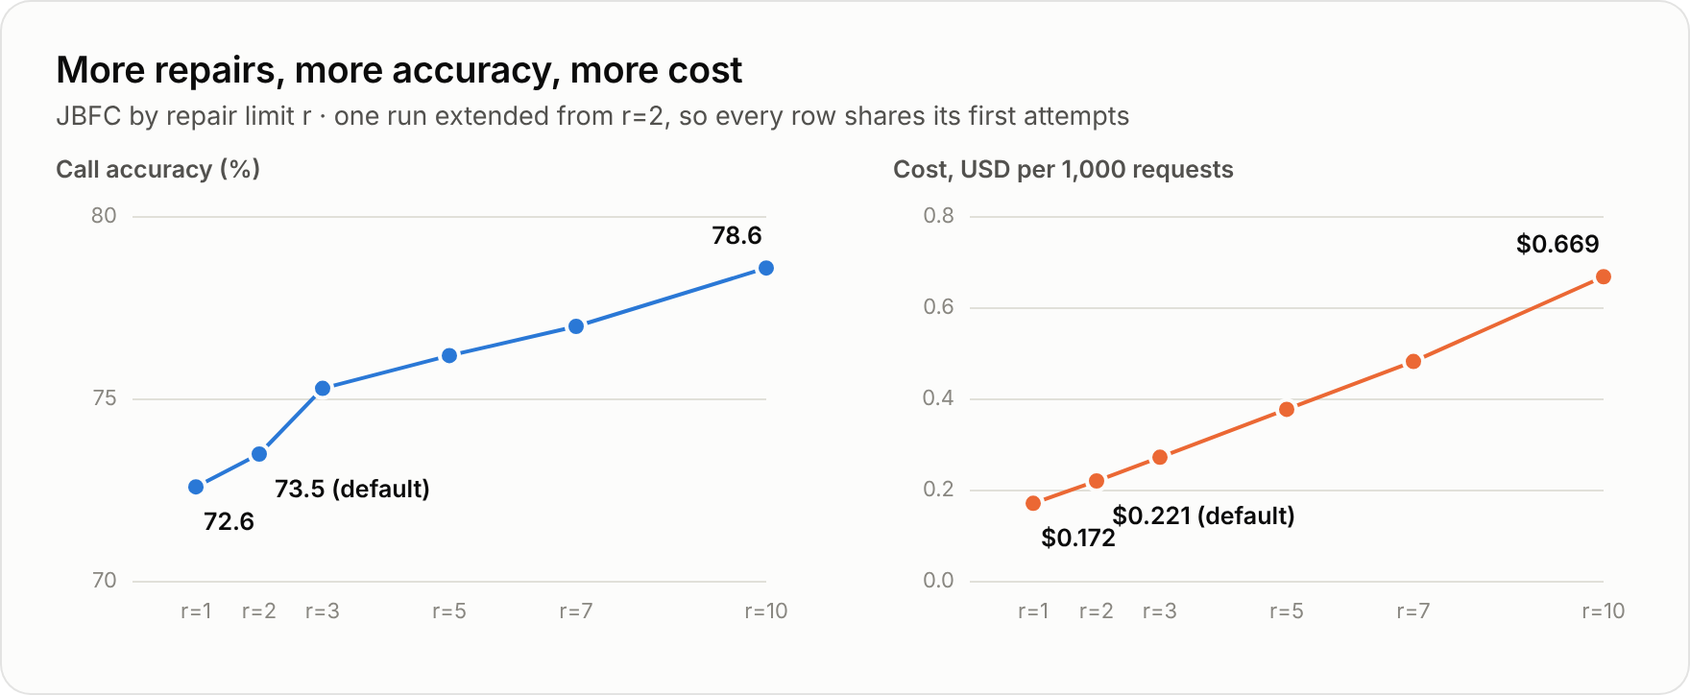
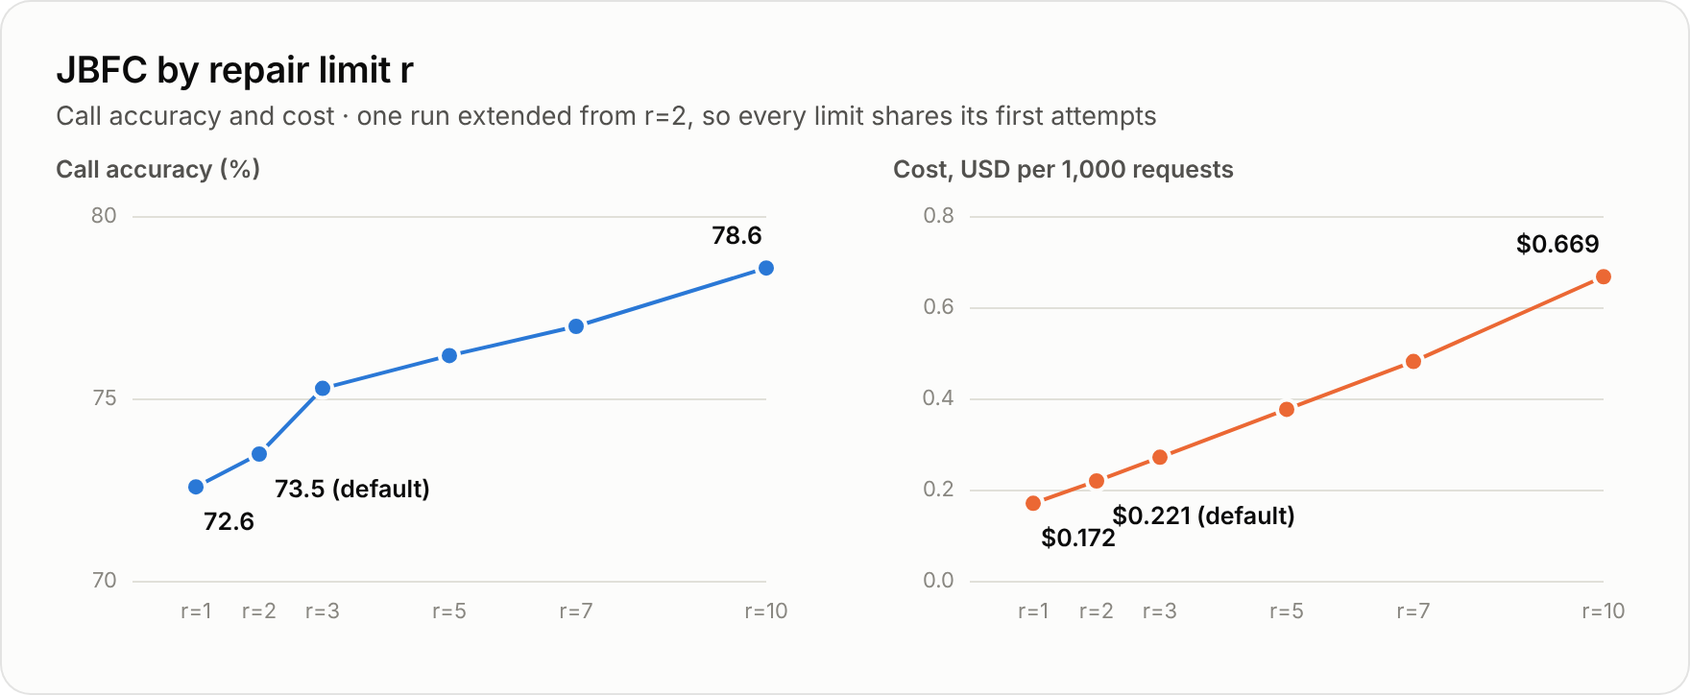
docs: stop headlining accuracy gains in the README
- Hero: replace the "+9.7 points" card with a real accept/reject example
- Remove the result badges; feature cells make no performance claims
- Move the numbers to a Results section after the API docs, opened by the
  study's scope (one generator, one run, BFCL subset), without bold claims
- Charts: neutral delta color and a plain title for the repair-limit chart
- AGENTS.md: keep result numbers off the README's first screen

Claude-Session: https://claude.ai/code/session_01HkTMoNkTjxN67DttugRtnV

Changed region(s): [[0.0312, 0.1519, 0.6875, 0.1823], [0.0312, 0.0608, 0.4375, 0.1215]]

diff --git a/docs/assets/src/hero.html b/docs/assets/src/hero.html
@@ -40,18 +40,23 @@
   .arrow { color: rgba(255,255,255,.55); font: 600 20px Inter; }
   .loop { font: 500 13px Inter; color: rgba(221,214,254,.85); margin-left: 4px; }
   .card {
-    position: absolute; right: 56px; top: 54px; width: 356px; padding: 26px 28px 24px;
+    position: absolute; right: 56px; top: 50px; width: 372px; padding: 22px 24px 20px;
     border-radius: 20px; background: rgba(255,255,255,.07); border: 1px solid rgba(255,255,255,.16);
     box-shadow: 0 20px 60px rgba(0,0,0,.35); backdrop-filter: blur(6px);
   }
   .card .lbl { font: 600 13px Inter; letter-spacing: .1em; text-transform: uppercase; color: #a5b4fc; }
-  .card .big { margin-top: 6px; font: 800 76px/1 "Inter Display"; color: #fff; letter-spacing: -.02em; }
-  .card .big span { font: 700 28px Inter; color: rgba(255,255,255,.75); margin-left: 6px; letter-spacing: 0; }
-  .card .row { margin-top: 14px; font: 500 16px Inter; color: rgba(255,255,255,.86); display: flex; justify-content: space-between; }
-  .card .row b { font-weight: 700; color: #fff; }
-  .card .row .up { color: #86efac; font-weight: 700; }
-  .card .hr { height: 1px; background: rgba(255,255,255,.14); margin-top: 14px; }
-  .card .foot { margin-top: 12px; font: 400 13px Inter; color: rgba(255,255,255,.6); }
+  .card .req { margin-top: 12px; font: 500 15px/1.35 Inter; color: rgba(255,255,255,.92); }
+  .card .req .who { font: 600 11px Inter; letter-spacing: .08em; text-transform: uppercase; color: rgba(255,255,255,.55); margin-right: 8px; }
+  .card .step { margin-top: 12px; display: flex; gap: 11px; align-items: flex-start; }
+  .card .ic { flex: none; width: 22px; height: 22px; border-radius: 50%; display: flex; align-items: center; justify-content: center; margin-top: 1px; }
+  .card .bad .ic { background: rgba(248,113,113,.22); border: 1.5px solid rgba(248,113,113,.8); }
+  .card .good .ic { background: rgba(74,222,128,.20); border: 1.5px solid rgba(74,222,128,.8); }
+  .card .code { font: 500 14px/1.35 "DejaVu Sans Mono", monospace; color: #fff; }
+  .card .bad .code { color: #fecaca; text-decoration: line-through; text-decoration-color: rgba(248,113,113,.7); }
+  .card .good .code { color: #bbf7d0; }
+  .card .why { margin-top: 3px; font: 400 13px Inter; color: rgba(255,255,255,.66); }
+  .card .why b { font-weight: 700; color: #fff; }
+  .card .mid { margin: 10px 0 0 33px; font: 500 13px Inter; color: #ddd6fe; }
 </style></head>
 <body>
 <div class="hero">
@@ -60,7 +65,7 @@
     <div class="eyebrow">Verify before you call</div>
     <div class="title">JBFC</div>
     <div class="sub">Jev-Backed Function Calling</div>
-    <div class="tag">Every tool call is checked before it runs, and repaired when it is wrong.</div>
+    <div class="tag">Tool calls are checked before they run and sent back for repair when rejected.</div>
   </div>
   <div class="flow">
     <div class="pill p1"><span class="e">🤖</span>LLM proposes</div>
@@ -72,12 +77,13 @@
     <div class="pill p4"><span class="e">✅</span>Runs</div>
   </div>
   <div class="card">
-    <div class="lbl">BFCL · gpt-5-nano</div>
-    <div class="big">+9.7<span>points</span></div>
-    <div class="row"><span>Call accuracy</span><span>63.8% → <b>73.5%</b></span></div>
-    <div class="row"><span>No tool needed</span><span>25.4% → <span class="up">74.2%</span></span></div>
-    <div class="hr"></div>
-    <div class="foot">3,051 examples · one run · at most 2 repairs</div>
+    <div class="lbl">Checked before it runs</div>
+    <div class="req"><span class="who">User</span>How many kilograms are in a pound?</div>
+    <div class="step bad"><div class="ic"><svg width="10" height="10" viewBox="0 0 10 10"><path d="M2 2 L8 8 M8 2 L2 8" stroke="#fecaca" stroke-width="1.8" stroke-linecap="round"/></svg></div>
+      <div><div class="code">portfolio_returns(…)</div><div class="why">Jev · right function? <b>no</b></div></div></div>
+    <div class="mid">↻ verdict goes back to the model</div>
+    <div class="step good"><div class="ic"><svg width="11" height="10" viewBox="0 0 11 10"><path d="M1.5 5.2 L4.3 8 L9.5 2" fill="none" stroke="#bbf7d0" stroke-width="1.8" stroke-linecap="round" stroke-linejoin="round"/></svg></div>
+      <div><div class="code">no call: answers in text</div><div class="why">Jev · right to make no call? <b>yes</b></div></div></div>
   </div>
 </div>
 </body></html>

diff --git a/docs/assets/src/charts.py b/docs/assets/src/charts.py
@@ -2,7 +2,7 @@
 
 Usage: python docs/assets/src/charts.py docs/assets/src/data.json docs/assets
 Needs Playwright with Chromium and the Inter font. The numbers in data.json must equal
-the filled paper tables (Tables 1-3); colors are a validated categorical palette.
+the filled paper results (Tables 1-2 and Figure 2); colors are a validated categorical palette.
 """
 import json
 import sys
@@ -13,10 +13,10 @@ from playwright.sync_api import sync_playwright
 THEMES = {
     "light": dict(surface="#fcfcfb", ink="#0b0b0b", ink2="#52514e", muted="#898781", grid="#e1e0d9",
                   base="#c3c2b7", blue="#2a78d6", orange="#eb6834", gray="#c9c7c0", link="#c3c2b7",
-                  up="#006300", border="rgba(11,11,11,0.10)"),
+                  border="rgba(11,11,11,0.10)"),
     "dark": dict(surface="#1a1a19", ink="#f0efec", ink2="#c3c2b7", muted="#898781", grid="#2c2c2a",
                  base="#383835", blue="#3987e5", orange="#d95926", gray="#4b4a46", link="#4b4a46",
-                 up="#0ca30c", border="rgba(255,255,255,0.10)"),
+                 border="rgba(255,255,255,0.10)"),
 }
 W = 880
 
@@ -68,7 +68,7 @@ def categories(t, rows):
         out.append(text(cols["Direct"], y, f"{direct:.1f}", t["ink2"], 13, 450, "end"))
         out.append(text(cols["JBFC"], y, f"{jbfc:.1f}", t["ink"], 13, 650, "end"))
         delta = jbfc - direct
-        out.append(text(cols["Δ"], y, f"+{delta:.1f}" if delta > 0.05 else "±0", t["up"] if delta > 0.05 else t["muted"], 13, 600, "end"))
+        out.append(text(cols["Δ"], y, f"+{delta:.1f}" if delta > 0.05 else "±0", t["ink2"] if delta > 0.05 else t["muted"], 13, 450, "end"))
     out.append("</svg>")
     return "".join(out)
 
@@ -156,8 +156,8 @@ def main(data_path, out_dir):
         jobs.append((f"chart-methods-{mode}.png", page(t, "Call accuracy by method",
                      "Same first proposal for every method · at most 2 repairs · time and cost per request at right",
                      [], methods(t, data["methods"]))))
-        jobs.append((f"chart-limits-{mode}.png", page(t, "More repairs, more accuracy, more cost",
-                     "JBFC by repair limit r · one run extended from r=2, so every row shares its first attempts",
+        jobs.append((f"chart-limits-{mode}.png", page(t, "JBFC by repair limit r",
+                     "Call accuracy and cost · one run extended from r=2, so every limit shares its first attempts",
                      [], limits(t, data["limits"]))))
     with sync_playwright() as p:
         browser = p.chromium.launch()

diff --git a/README.md b/README.md
@@ -1,14 +1,8 @@
 <p align="center">
-  <img src="docs/assets/jbfc-hero.png" alt="JBFC: Jev-Backed Function Calling. The LLM proposes a call, Jev checks it, the LLM repairs it with the feedback, and only then does it run." width="100%">
+  <img src="docs/assets/jbfc-hero.png" alt="JBFC: Jev-Backed Function Calling. The LLM proposes a call, Jev checks it, a rejected call goes back to the LLM with the verdict, and only a call that passes runs." width="100%">
 </p>
 
-<h3 align="center">Your LLM's tool calls, checked before they run, and repaired when they are wrong.</h3>
-
-<p align="center">
-  <a href="#the-numbers"><img alt="BFCL call accuracy 63.8% to 73.5%" src="https://img.shields.io/badge/BFCL%20call%20accuracy-63.8%25%20%E2%86%92%2073.5%25-2563eb?style=for-the-badge"></a>
-  <a href="#see-it"><img alt="No tool needed 25.4% to 74.2%" src="https://img.shields.io/badge/no%20tool%20needed-25.4%25%20%E2%86%92%2074.2%25-7c3aed?style=for-the-badge"></a>
-  <a href="#more-repairs"><img alt="With 10 repairs 78.6%" src="https://img.shields.io/badge/with%2010%20repairs-78.6%25-db2777?style=for-the-badge"></a>
-</p>
+<h3 align="center">Your LLM's tool calls, checked before they run and sent back for repair when rejected.</h3>
 
 <p align="center">
   <img alt="OpenAI" src="https://img.shields.io/badge/OpenAI-412991?style=flat-square&logo=openai&logoColor=white">
@@ -32,10 +26,10 @@
   <a href="#see-it"><b>See it</b></a> ·
   <a href="#install"><b>Install</b></a> ·
   <a href="#quickstart"><b>Quickstart</b></a> ·
-  <a href="#the-numbers"><b>Numbers</b></a> ·
   <a href="#how-it-works"><b>How it works</b></a> ·
   <a href="#use-any-model"><b>Any model</b></a> ·
   <a href="#verify-calls-from-any-framework"><b>Verify</b></a> ·
+  <a href="#results"><b>Results</b></a> ·
   <a href="#faq"><b>FAQ</b></a> ·
   <a href="#reproduce-the-paper"><b>Reproduce</b></a>
 </p>
@@ -84,14 +78,14 @@ Two real traces from the paper's run (`gpt-5-nano` on BFCL, `jev-1.13.0`). Red l
 
 <table>
   <tr>
-    <td width="33%" valign="top"><b>🎯 Catches what schemas miss</b><br>Wrong function, invented values, a call that should not happen at all. Jev judges meaning; a local schema check covers format.</td>
+    <td width="33%" valign="top"><b>🎯 Checks what schemas cannot</b><br>Wrong function, invented values, a call that should not happen at all. Jev judges meaning; a local schema check covers format.</td>
     <td width="33%" valign="top"><b>🔁 Repairs instead of failing</b><br>Rejected calls go back to the model with every earlier attempt and verdict. Nothing runs until a call passes.</td>
-    <td width="33%" valign="top"><b>⚡ Fast labels</b><br>Jev judges a call in 0.30 s on average, under a quarter of the time the model takes to propose it, at $0.06 per 1,000 checks.</td>
+    <td width="33%" valign="top"><b>⚡ Light checks</b><br>A Jev verdict took about 0.3 s per call in our runs, less time than the model took to propose the call, and about $0.06 per 1,000 checks.</td>
   </tr>
   <tr>
     <td valign="top"><b>🔌 Any model</b><br>OpenAI, Anthropic, Gemini, xAI Grok, Azure OpenAI, OpenRouter, or any OpenAI-compatible server. Plain HTTP, no vendor SDKs.</td>
     <td valign="top"><b>🧰 Plain Python tools</b><br>Pass functions. Schemas come from type hints and docstrings; JSON Schema works too.</td>
-    <td valign="top"><b>📄 Paper-grade</b><br>The same loop produced the paper's numbers. Every result here comes from one complete run on 3,051 BFCL examples.</td>
+    <td valign="top"><b>📄 Open study</b><br>The library runs the same loop as the paper. Code, the pinned BFCL revision and the checks behind every table are in this repo.</td>
   </tr>
 </table>
 
@@ -143,77 +137,13 @@ elif result.no_call:
     print(result.text)                   # the model answered without a tool
 ```
 
-## The numbers
-
-All 3,051 examples from seven BFCL categories, one run, `gpt-5-nano` (reasoning effort `none`) as the model and `jev-1.13.0` as the verifier. Every method shares each example's first proposal. From the paper in [`paper/`](paper/main.pdf).
-
-<picture>
-  <source media="(prefers-color-scheme: dark)" srcset="docs/assets/chart-categories-dark.png">
-  <img alt="Accuracy by BFCL category, Direct vs JBFC: Simple Python 90.8 to 91.5, Multiple 91.0 to 91.5, Irrelevance 25.4 to 74.2, Live simple 73.6 to 75.2, Live multiple 67.7 to 71.2, Live irrelevance 48.2 to 63.2, total 63.8 to 73.5." src="docs/assets/chart-categories-light.png" width="100%">
-</picture>
-
-<picture>
-  <source media="(prefers-color-scheme: dark)" srcset="docs/assets/chart-methods-dark.png">
-  <img alt="Call accuracy by method: JBFC 73.5, JBFC-A 72.9, JBFC-L 72.8, JBFC-F 72.6, Self-refine 69.8, Schema repair 65.7, Direct 63.8, with API seconds and USD per 1,000 requests." src="docs/assets/chart-methods-light.png" width="100%">
-</picture>
-
-- Every repair method beats Direct; JBFC by **9.7 points** (paired bootstrap 95% CI 8.5–11.0).
-- Generic self-review spends three proposals on every request and still trails every Jev-based method, which average 1.5 to 1.8.
-- Keeping the whole revision history adds 0.7 points over showing only the latest rejection (95% CI 0.1–1.4).
-- Calls that pass all checks are **90.6% correct** (68.4% of examples), so the verdict doubles as a confidence signal.
-
-<a id="more-repairs"></a>
-<picture>
-  <source media="(prefers-color-scheme: dark)" srcset="docs/assets/chart-limits-dark.png">
-  <img alt="JBFC by repair limit: call accuracy 72.6% at r=1, 73.5% at r=2 (default), 75.3% at r=3, 76.2% at r=5, 77.0% at r=7 and 78.6% at r=10; cost per 1,000 requests $0.172, $0.221, $0.273, $0.378, $0.483 and $0.669." src="docs/assets/chart-limits-light.png" width="100%">
-</picture>
-
-More repairs keep paying off, at a price: the same run, continued up to ten repairs, reaches **78.6%**. The default stays at `max_repairs=2`; raise it when accuracy matters more than latency.
-
-> [!NOTE]
-> **The rows that are not green.** Most of the gain comes from requests where no tool applies (Irrelevance: 25.4% → 74.2%). Where a call *is* needed, Jev rejects most wrong calls, but a yes/no verdict says *that* a call is wrong, not *which* call is right, so fewer get fixed (Simple Python +0.7, Multiple +0.5). It costs about four times Direct: $0.22 instead of $0.056 per 1,000 requests with `gpt-5-nano`, and 1.6 extra API seconds.
-
-<details>
-<summary><b>All numbers as tables</b></summary>
-
-| Category | Examples | Direct | **JBFC** |
-|---|---:|---:|---:|
-| Simple Python | 400 | 90.8 | **91.5** |
-| Multiple | 200 | 91.0 | **91.5** |
-| Irrelevance | 240 | 25.4 | **74.2** |
-| Live simple | 258 | 73.6 | **75.2** |
-| Live multiple | 1,053 | 67.7 | **71.2** |
-| Live irrelevance | 884 | 48.2 | **63.2** |
-| **Total** (excl. 16 live relevance) | 3,035 | 63.8 | **73.5** |
-
-| Method | Call acc. | Function acc. | Argument acc. | API sec. | USD / 1k requests |
-|---|---:|---:|---:|---:|---:|
-| Direct (no checks) | 63.8 | 74.8 | 81.2 | 1.30 | 0.056 |
-| Schema repair | 65.7 | 76.4 | 81.8 | 1.36 | 0.059 |
-| Self-refine (3 proposals, every request) | 69.8 | 80.0 | 82.3 | 4.01 | 0.190 |
-| JBFC-F (function check only) | 72.6 | 83.5 | 81.8 | 2.61 | 0.190 |
-| JBFC-A (argument check only) | 72.9 | 82.8 | **83.0** | 2.40 | 0.175 |
-| JBFC-L (latest feedback only) | 72.8 | 83.1 | 82.6 | 2.92 | 0.217 |
-| **JBFC** | **73.5** | **83.7** | 82.8 | 2.90 | 0.221 |
-
-| `max_repairs` | 1 | 2 (default) | 3 | 5 | 7 | 10 |
-|---|---:|---:|---:|---:|---:|---:|
-| Call accuracy | 72.6 | 73.5 | 75.3 | 76.2 | 77.0 | **78.6** |
-| Function accuracy | 83.0 | 83.7 | 85.0 | 86.0 | 86.5 | **87.7** |
-| Mean repairs used | 0.42 | 0.75 | 1.07 | 1.69 | 2.29 | 3.17 |
-| Reached the limit without passing | 33.4% | 31.8% | 30.9% | 30.2% | 29.7% | 29.2% |
-| API seconds | 2.33 | 2.90 | 3.49 | 4.65 | 5.79 | 7.35 |
-| USD / 1k requests | 0.172 | 0.221 | 0.273 | 0.378 | 0.483 | 0.669 |
-
-</details>
-
 ## How it works
 
 ![JBFC: the model proposes a call, Jev checks it, and rejected calls return to the model as a growing feedback history](docs/assets/jbfc-framework.png)
 
 **(a)** The LLM proposes a call $c_t$, one function with its arguments, or no call. A local schema check and Jev judge it: Jev sees the request, the available functions and the call, and answers *right function?* and, when there is a call, *right arguments?* as probabilities of yes. A check passes at 0.8 or more. A rejected call and its verdicts $d_t$ are appended to the feedback history $H_t$, and the model tries again. **(b)** The history goes *before* the original request, oldest first, and is marked as not executed, so the model sees every earlier attempt and can change the function, the arguments, or decide not to call. (The scores in (b) are illustrative.)
 
-Each record is a labeled example: a call the model wrote, with Jev's verdict on it. Like the demonstrations in [many-shot in-context learning](https://arxiv.org/abs/2404.11018), more of them help: the full history beats the latest record alone, and accuracy keeps rising with the repair limit (which also adds attempts). Jev makes those labels in a fraction of a second, without reference answers.
+Each record is a labeled example: a call the model wrote, with Jev's verdict on it. Like the demonstrations in [many-shot in-context learning](https://arxiv.org/abs/2404.11018), more of them seemed to help in our run: the full history scored slightly above the latest record alone, and accuracy rose with the repair limit (which also adds attempts). Jev makes those labels in a fraction of a second, without reference answers.
 
 The loop stops at the first proposal that passes every check, or after `max_repairs` repairs (2 by default). Nothing runs during repairs; `run()` executes only the final, accepted call.
 
@@ -320,6 +250,70 @@ jbfc.JBFC(
 | `attempts` | every proposal with its Jev probabilities and schema errors |
 | `usage`, `latency_s` | tokens for the model and for Jev, and wall time |
 | `trace` | the full record: proposals, verdicts and feedback |
+
+</details>
+
+## Results
+
+> [!NOTE]
+> A small study, not a benchmark claim: one generator (`gpt-5-nano`, reasoning effort `none`), one verifier (`jev-1.13.0`), 3,051 single-turn examples from seven BFCL categories, one run per method, nothing tuned. Every method shares each example's first proposal. Intervals and caveats are in the [paper](paper/main.pdf).
+
+<picture>
+  <source media="(prefers-color-scheme: dark)" srcset="docs/assets/chart-categories-dark.png">
+  <img alt="Accuracy by BFCL category, Direct vs JBFC: Simple Python 90.8 to 91.5, Multiple 91.0 to 91.5, Irrelevance 25.4 to 74.2, Live simple 73.6 to 75.2, Live multiple 67.7 to 71.2, Live irrelevance 48.2 to 63.2, total 63.8 to 73.5." src="docs/assets/chart-categories-light.png" width="100%">
+</picture>
+
+<picture>
+  <source media="(prefers-color-scheme: dark)" srcset="docs/assets/chart-methods-dark.png">
+  <img alt="Call accuracy by method: JBFC 73.5, JBFC-A 72.9, JBFC-L 72.8, JBFC-F 72.6, Self-refine 69.8, Schema repair 65.7, Direct 63.8, with API seconds and USD per 1,000 requests." src="docs/assets/chart-methods-light.png" width="100%">
+</picture>
+
+- Every repair method scored above Direct in this run; JBFC by 9.7 points (paired bootstrap 95% CI 8.5–11.0).
+- Most of that difference comes from requests where no tool applies (Irrelevance: 25.4% → 74.2%). Where a call is needed, the gains are small (Simple Python +0.7, Multiple +0.5): a yes/no verdict says *that* a call is wrong, not *which* call is right.
+- Generic self-review spends three proposals on every request and trailed every Jev-based method, which averaged 1.5 to 1.8 proposals.
+- Keeping the whole history scored 0.7 points above showing only the latest rejection (95% CI 0.1–1.4).
+- Accepted is not the same as correct: calls that passed every check (68.4% of examples) were 90.6% correct.
+- JBFC cost about four times Direct ($0.22 instead of $0.056 per 1,000 requests) and took 1.6 more API seconds.
+
+<a id="more-repairs"></a>
+<picture>
+  <source media="(prefers-color-scheme: dark)" srcset="docs/assets/chart-limits-dark.png">
+  <img alt="JBFC by repair limit: call accuracy 72.6% at r=1, 73.5% at r=2 (default), 75.3% at r=3, 76.2% at r=5, 77.0% at r=7 and 78.6% at r=10; cost per 1,000 requests $0.172, $0.221, $0.273, $0.378, $0.483 and $0.669." src="docs/assets/chart-limits-light.png" width="100%">
+</picture>
+
+Continuing the same run to higher repair limits raised call accuracy from 73.5% at two repairs to 78.6% at ten, at about three times the cost; most newly correct answers (178 of 194) were again cases where no tool applies. The default stays at `max_repairs=2`.
+
+<details>
+<summary><b>All numbers as tables</b></summary>
+
+| Category | Examples | Direct | **JBFC** |
+|---|---:|---:|---:|
+| Simple Python | 400 | 90.8 | **91.5** |
+| Multiple | 200 | 91.0 | **91.5** |
+| Irrelevance | 240 | 25.4 | **74.2** |
+| Live simple | 258 | 73.6 | **75.2** |
+| Live multiple | 1,053 | 67.7 | **71.2** |
+| Live irrelevance | 884 | 48.2 | **63.2** |
+| **Total** (excl. 16 live relevance) | 3,035 | 63.8 | **73.5** |
+
+| Method | Call acc. | Function acc. | Argument acc. | API sec. | USD / 1k requests |
+|---|---:|---:|---:|---:|---:|
+| Direct (no checks) | 63.8 | 74.8 | 81.2 | 1.30 | 0.056 |
+| Schema repair | 65.7 | 76.4 | 81.8 | 1.36 | 0.059 |
+| Self-refine (3 proposals, every request) | 69.8 | 80.0 | 82.3 | 4.01 | 0.190 |
+| JBFC-F (function check only) | 72.6 | 83.5 | 81.8 | 2.61 | 0.190 |
+| JBFC-A (argument check only) | 72.9 | 82.8 | **83.0** | 2.40 | 0.175 |
+| JBFC-L (latest feedback only) | 72.8 | 83.1 | 82.6 | 2.92 | 0.217 |
+| **JBFC** | **73.5** | **83.7** | 82.8 | 2.90 | 0.221 |
+
+| `max_repairs` | 1 | 2 (default) | 3 | 5 | 7 | 10 |
+|---|---:|---:|---:|---:|---:|---:|
+| Call accuracy | 72.6 | 73.5 | 75.3 | 76.2 | 77.0 | 78.6 |
+| Function accuracy | 83.0 | 83.7 | 85.0 | 86.0 | 86.5 | 87.7 |
+| Mean repairs used | 0.42 | 0.75 | 1.07 | 1.69 | 2.29 | 3.17 |
+| Reached the limit without passing | 33.4% | 31.8% | 30.9% | 30.2% | 29.7% | 29.2% |
+| API seconds | 2.33 | 2.90 | 3.49 | 4.65 | 5.79 | 7.35 |
+| USD / 1k requests | 0.172 | 0.221 | 0.273 | 0.378 | 0.483 | 0.669 |
 
 </details>
 

diff --git a/AGENTS.md b/AGENTS.md
@@ -23,7 +23,7 @@ seven-method run (results/table2_gpt-5-nano_r2: gpt-5-nano, all 3,051 examples, 
 - Generator responses cut off at the output limit, refused, or blocked by the provider's content filter (including HTTP 400 content_filter) are unreadable proposals: calls=None with the reason in proposal.incomplete, scored wrong, repaired with local feedback, and counted in summaries. Other API errors still stop the run and record a sanitized provider error code.
 - Only the final dispatch boundary can invoke an application callback. Benchmark runs do not execute tools.
 - The manuscript uses execute_last: return the first passing proposal, or the last proposal at the repair limit even if rejected, and score it without running functions. Keep Section 3.3 focused on this final proposal rule; omit storage inventories, manifests, callbacks, and optional abstention policies from the manuscript. Shared initial proposals and their costs belong in Experiments.
-- src/jbfc is the public library (`import jbfc`, documented in the English README). It reuses jev_fc's repair loop (run_example), Jev client and generator prompt read-only, so its defaults reproduce the experiments; tests/test_jbfc.py checks prompt parity with jev_fc. Library work must not change src/jev_fc while a run or its extension depends on the source hash. Keep README numbers equal to the filled paper tables (scripts/analyze_results.py prints the Results numbers); README charts and the hero image are generated from docs/assets/src (data.json must match Tables 1-2 and Figure 2).
+- src/jbfc is the public library (`import jbfc`, documented in the English README). It reuses jev_fc's repair loop (run_example), Jev client and generator prompt read-only, so its defaults reproduce the experiments; tests/test_jbfc.py checks prompt parity with jev_fc. Library work must not change src/jev_fc while a run or its extension depends on the source hash. Keep README numbers equal to the filled paper tables (scripts/analyze_results.py prints the Results numbers); README charts and the hero image are generated from docs/assets/src (data.json must match Tables 1-2 and Figure 2). Do not headline performance gains in the README (user request, 2026-10-18): no result numbers in the hero image, badges, tagline or feature cells; results appear only in the Results section, after the API sections, opened by the study's scope (one generator, one run, BFCL subset) and stated without bold or superlatives.
 - Never print, commit or package API keys or .env. Keep credential fields in .env.example blank. APIM uses only the project subscription key in api-key; do not forward provider credentials. Preserve API format/routing in run fingerprints and keep unknown pricing unavailable.
 - Run appropriate offline tests after code changes. Use the native LaTeX editor for the standalone manuscript,
   and verify the exported PDF has four body pages with references beginning on page five (six pages maximum).

diff --git a/docs/validation.md b/docs/validation.md
@@ -278,3 +278,11 @@
 - 4쪽 유지: 그림이 표보다 높아 Acknowledgements가 5쪽으로 넘쳤습니다. 범례를 그림 안으로 옮기고 패널 높이와 캡션을 줄였으며, Study Limits의 "may suit some methods better than others"를 "may favor some methods"로 줄였습니다.
 - 제목: 사용자 요청으로 부제를 "Agentic In-Context Learning with Cumulative Decision Feedback"로 바꿨습니다(원고, README 인용).
 - PDF: 본문 4쪽·참고문헌 5쪽, Type 3 폰트 없음, overfull 없음을 확인했습니다.
+
+## README: 성능 수치 강조 제거 (2026-10-18)
+
+- 사용자 요청: 크지 않은 연구와 실험에서 "몇 점에서 몇 점으로" 같은 수치를 README 첫머리에서 내세우면 역효과가 날 수 있으므로 강조를 뺍니다.
+- 히어로 이미지의 "+9.7 points" 카드를 실제 실행의 예(불필요한 호출이 Jev에 거부되고, 모델이 호출 없이 답하는 과정)를 보여 주는 카드로 바꿨습니다. 수치는 없습니다. 태그라인도 "repaired when it is wrong" 대신 "sent back for repair when rejected"로 바꿨습니다(수정이 항상 성공하지는 않으므로).
+- 결과 배지 줄(63.8%→73.5%, 25.4%→74.2%, 78.6%)을 지웠습니다. 기능 표의 "Paper-grade"·"Fast labels"를 "Open study"·"Light checks"로 바꾸고 측정값은 "in our runs"로 한정했습니다.
+- "The numbers" 절을 API 설명 뒤의 "Results" 절로 옮겼습니다. 첫머리에 연구 범위(생성기 하나, 한 번 실행, BFCL 3,051개, 조정 없음)를 적고, 굵은 수치와 "keep paying off" 같은 표현을 뺐습니다. 수락 ≠ 정답(90.6%), 이득 대부분이 도구가 필요 없는 요청에서 나온다는 점, 비용(약 4배)을 같은 목록에 두었습니다. 차트의 Δ 열은 초록 대신 본문 색으로, 수정 한도 차트 제목은 "JBFC by repair limit r"로 바꿨습니다. 수치 자체는 원고 표와 같습니다.
+- AGENTS.md에 README 첫 화면에 성능 수치를 내세우지 않는다는 규칙을 더했습니다.
